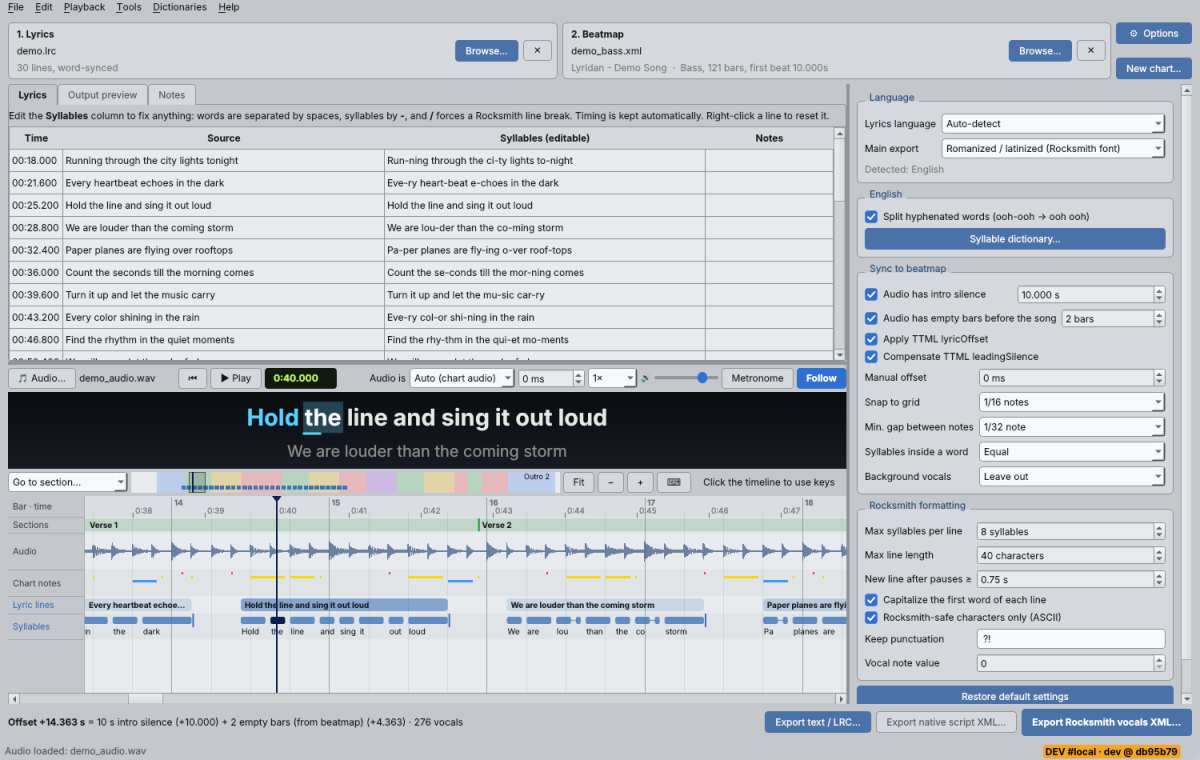
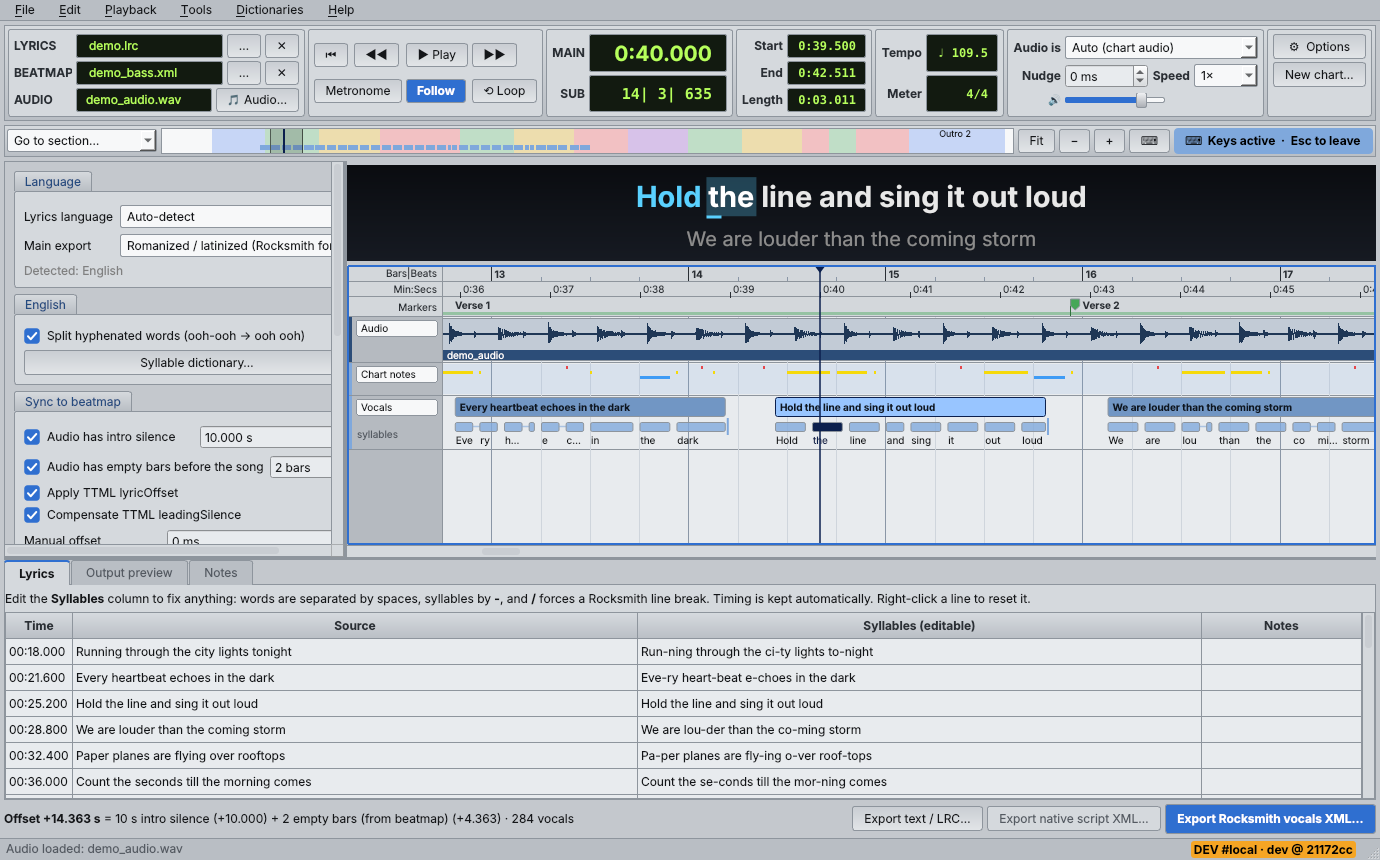
README: new edit-window layout, play range / loop, focus rules, new theme screenshots
- New "The window" section: toolbar groups (session, transport, MAIN / SUB
  counters, Start / End / Length, Tempo / Meter, playback), overview strip,
  settings | timeline, editor tabs underneath.
- Timeline: DAW-style row names, ◀◀ ▶▶, Shift + drag ranges, a "Play range and
  loop" section, L key, how the timeline gets the keyboard and why Tab / typing
  can't change settings.
- Options: the click-focus option; Digital Studio marked as the default theme.
- All ten theme screenshots re-rendered at 1380x860 with the new layout (same
  demo song, playhead at 0:40, timeline holding the keyboard).

Claude-Session: https://claude.ai/code/session_01JNcnJd6Nsq4ToiE3mvEc4C

diff --git a/README.md b/README.md
@@ -12,6 +12,7 @@ The output is already syllabized, romanized and snapped to your chart's beatmap,
 **Contents:**
 [Quick start](#quick-start) ·
 [Features](#features) ·
+[The window](#the-window) ·
 [The timeline](#the-timeline) ·
 [How sync works](#how-sync-works) ·
 [Using .lrc files](#using-lrc-files) ·
@@ -28,12 +29,12 @@ The output is already syllabized, romanized and snapped to your chart's beatmap,
 
 1. **Lyrics:** drop a `.ttml` or `.lrc` file onto the window.
 2. **Beatmap:** drop the arrangement XML of your chart (lead, rhythm or bass - it holds the synced beatmap).
-3. **Audio:** drop the audio file your chart uses, or pick it with **🎵 Audio…**. It's used for playback and the timeline.
-4. **Check:** look through the **Lyrics** tab (edit lines if needed), the **timeline** and the **Notes** tab.
+3. **Audio:** drop the audio file your chart uses, or pick it with **🎵 Audio…** in the toolbar. It's used for playback and the timeline.
+4. **Check:** play through the **timeline**, then look through the **Lyrics** tab underneath it (edit lines if needed) and the **Notes** tab.
 5. **Export:** click **Export Rocksmith vocals XML…** and open it in EOF or Charter.
 6. **Review:** play it against the song and fix any wrong syllables, line breaks or timing there. Only then build your CDLC (e.g. in DLC Builder) - don't drop the export straight into a finished CDLC.
 
-Moving on to another song? **New chart…** (top right) clears the lyrics, beatmap, audio and your edits in one go.
+Moving on to another song? **New chart…** (top right of the toolbar) clears the lyrics, beatmap, audio and your edits in one go.
 
 - It always asks first, and **Cancel** is the default.
 - The clear button only unlocks after a moment, so a reflex click or Enter can't wipe your work.
@@ -83,34 +84,72 @@ Lines are kept to about **7-8 sung syllables** (the usual charting rule of thumb
 
 ---
 
+## The window
+
+The window is laid out like a DAW edit window. From top to bottom:
+
+- **Toolbar**, in groups:
+  - **Session:** the loaded lyrics, beatmap and audio files. **…** opens a file, **✕** removes it, and hovering a name shows its details (line count, arrangement, bars, first beat…).
+  - **Transport:** back to the first lyric, previous / next lyric line (**◀◀ ▶▶**), **Play**, **Metronome**, **Follow** and **Loop**.
+  - **MAIN** counter (chart time, as in the exported XML) and **SUB** counter (bar | beat | tick at the playhead).
+  - **Start / End / Length** of the play range, see [Play range and loop](#play-range-and-loop).
+  - **Tempo / Meter** of your chart's beatmap at the playhead.
+  - **Playback:** chart audio or original song, preview nudge, speed and volume.
+  - **⚙ Options** and **New chart…**
+- **Overview strip:** go to a section, the whole song at a glance, zoom and the keyboard help (⌨).
+- **Settings** on the left and the **timeline** with the in-game lyrics preview in the middle.
+- **Lyrics / Output preview / Notes** tabs underneath.
+- **Export** buttons and the offset breakdown at the bottom.
+
+The counters and file displays use the theme's clock colours (green on black unless the theme has its own). Drag the dividers to give the timeline or the lyrics more room.
+
+---
+
 ## The timeline
 
-Below the lyrics you get a timeline with playback and an **in-game lyrics preview**. Press **Play** (Space / Ctrl+P) and the preview shows each line the way Rocksmith will: syllables light up as they're sung and the next line waits below. It is built from the exact vocals that will be exported, so you can check the final sync and line breaks before exporting.
+The timeline comes with playback and an **in-game lyrics preview**. Press **Play** (Space / Ctrl+P) and the preview shows each line the way Rocksmith will: syllables light up as they're sung and the next line waits below. It is built from the exact vocals that will be exported, so you can check the final sync and line breaks before exporting.
 
-The timeline rows, top to bottom:
+The timeline rows, top to bottom (the Digital Studio themes draw them as DAW rulers and tracks, with the names in brackets):
 
 | Row | Shows |
 |---|---|
-| Bar · time | measure numbers and time |
-| Sections | coloured, named sections from your chart (Verse 1, Chorus 2…) |
-| Audio | the song's waveform |
+| Bar · time (Bars\|Beats, Min:Secs) | measure numbers and time |
+| Sections (Markers) | coloured, named sections from your chart (Verse 1, Chorus 2…) |
+| Audio | the song's waveform (a clip named after the audio file) |
 | Chart notes | your chart's notes, one lane per string |
-| Lyric lines | each Rocksmith line as one block with its full text |
+| Lyric lines (Vocals) | each Rocksmith line as one block with its full text |
 | Syllables | one bar per syllable, joined within a word, with a mark at every line break |
 | Reference rows | optional: an existing vocals XML to compare against (**File → Compare with existing vocals XML…**), e.g. when redoing a chart that already has vocals |
 
 ### Getting around
 - **Overview strip:** the whole song at a glance. Click or drag it to view any part.
 - **Go to section…** jumps straight to a section; **Fit** shows the whole song.
+- **◀◀ ▶▶** in the toolbar jump to the previous / next lyric line.
 - **Mouse:**
   - click to move the playhead (drag to scrub)
   - click a section to jump to it
   - double-click a lyric line to play it
+  - Shift + drag to select a play range, Shift + click to clear it
   - wheel to scroll (Shift = faster), Ctrl + wheel to zoom
   - right/middle-drag to pan
 
+### Play range and loop
+The **Start / End / Length** clocks show the lyric line under the playhead, or a range you select with **Shift + drag** in the timeline. A selected range is highlighted across the tracks, and the three clocks get a coloured frame while they show it.
+
+- Click **Start** or **End** to jump there.
+- Click **Length** to play the range once; playback stops at its end.
+- **⟲ Loop** (or **L** in the timeline) repeats the range while playing. Without a selected range it repeats the line under the playhead, which is handy for checking one line's timing over and over.
+- Jumping past the end of the loop with the keyboard or mouse isn't pulled back, so you can still move around freely.
+
 ### Keyboard
-Click the timeline first. A coloured frame and a **Keys active** label show it is listening, and **Esc** hands the keyboard back, so these keys never change settings elsewhere. The ⌨ button lists them too.
+The timeline keys work while the timeline has the keyboard. A coloured frame and a **Keys active** label show it is listening. To give it the keyboard, click:
+
+- the timeline itself;
+- the lyrics preview or the overview strip;
+- the transport and zoom buttons;
+- the MAIN or SUB counter, or the Start / End / Length clocks.
+
+Everything except the timeline itself can be switched off in Options. This works the same while playing or paused. **Esc** hands the keyboard back, and **Tab** never moves it into the settings, so these keys can't change anything outside the timeline. The ⌨ button lists them too.
 
 | Key | Action |
 |---|---|
@@ -122,16 +161,18 @@ Click the timeline first. A coloured frame and a **Keys active** label show it i
 | ↑ ↓ | zoom in / out |
 | Space · Enter | play / pause · play the current line |
 | F | fit the whole song |
+| L | loop on / off |
 
 ### Audio
 - **Pick the audio** your chart uses with **🎵 Audio…** or drop it on the window.
 - **A new chart gets fresh audio:** loading a *different* chart XML unloads the previous chart's audio, so you never preview against the wrong song.
 - **Chart audio or the original song:** both work. Lyridan detects which one you loaded and shifts the original song by the intro silence and empty bars.
-- **Controls:** metronome on the chart's beats, 0.5× / 0.75× speed, follow-playhead.
+- **Controls:** metronome on the chart's beats, 0.5× / 0.75× speed, follow-playhead and loop.
 
 ### No accidental changes
 - The mouse wheel over a number box, drop-down or slider in the settings **scrolls the panel** instead of changing the value, unless you clicked into that field first.
-- Timeline toolbar controls never keep the keyboard, so arrow keys can't change them by accident.
+- Toolbar buttons never keep the keyboard, and the toolbar drop-downs and nudge box hand it back to the timeline once you've used them, so arrow keys can't change them by accident.
+- Tab can't move the keyboard from the timeline into the settings, and typing while the timeline has the keyboard changes nothing.
 
 ---
 
@@ -230,10 +271,10 @@ Contractions, possessives, elongated words (*ooooh*) and hyphenated words are ha
 
 ## Options and themes
 
-Open them with the **⚙ Options** button at the top right (or Edit → Options):
+Open them with the **⚙ Options** button at the right end of the toolbar (or Edit → Options):
 
 - **Themes and text sizes**
-- **Playback defaults** and the **timeline arrow-key step**
+- **Playback defaults**, the **timeline arrow-key step** and whether clicking the preview, overview, transport buttons or clocks gives the timeline the keyboard
 - **Reopening the last session** and the **default export folder**
 - **Notices:** the export disclaimer and resetting dismissed notices
 - **Alignment model management** and **About this build**
@@ -247,15 +288,15 @@ Open them with the **⚙ Options** button at the top right (or Edit → Options)
 | Running Red | light, white and red |
 | Akai Dark | dark with red accents |
 | Mechanical Red & Orange | dark, black with orange and red |
-| Digital Studio | dark, inspired by a DAW edit window |
-| Digital Studio Light | light, inspired by a classic DAW edit window |
+| Digital Studio | **default**; dark, inspired by a DAW edit window: rulers, markers, clips and track headers in the timeline, green counters |
+| Digital Studio Light | light version of Digital Studio, inspired by a classic DAW edit window |
 | Studio Console | dark, inspired by an analogue mixing console strip |
 | Studio Console Light | light, inspired by a different analogue console strip |
 
 <details>
 <summary><b>Theme screenshots</b> (click to expand)</summary>
 
-*The screenshots use made-up demo lyrics by Claude only to avoid putting too much of real songs in the repo. Elevatorisbest is against generative AI usage and this does not constitute support or endorsement of such stuff.*
+*The screenshots show the timeline holding the keyboard at 0:40 in a demo song. They use made-up demo lyrics by Claude only to avoid putting too much of real songs in the repo. Elevatorisbest is against generative AI usage and this does not constitute support or endorsement of such stuff.*
 
 **Light**
 
